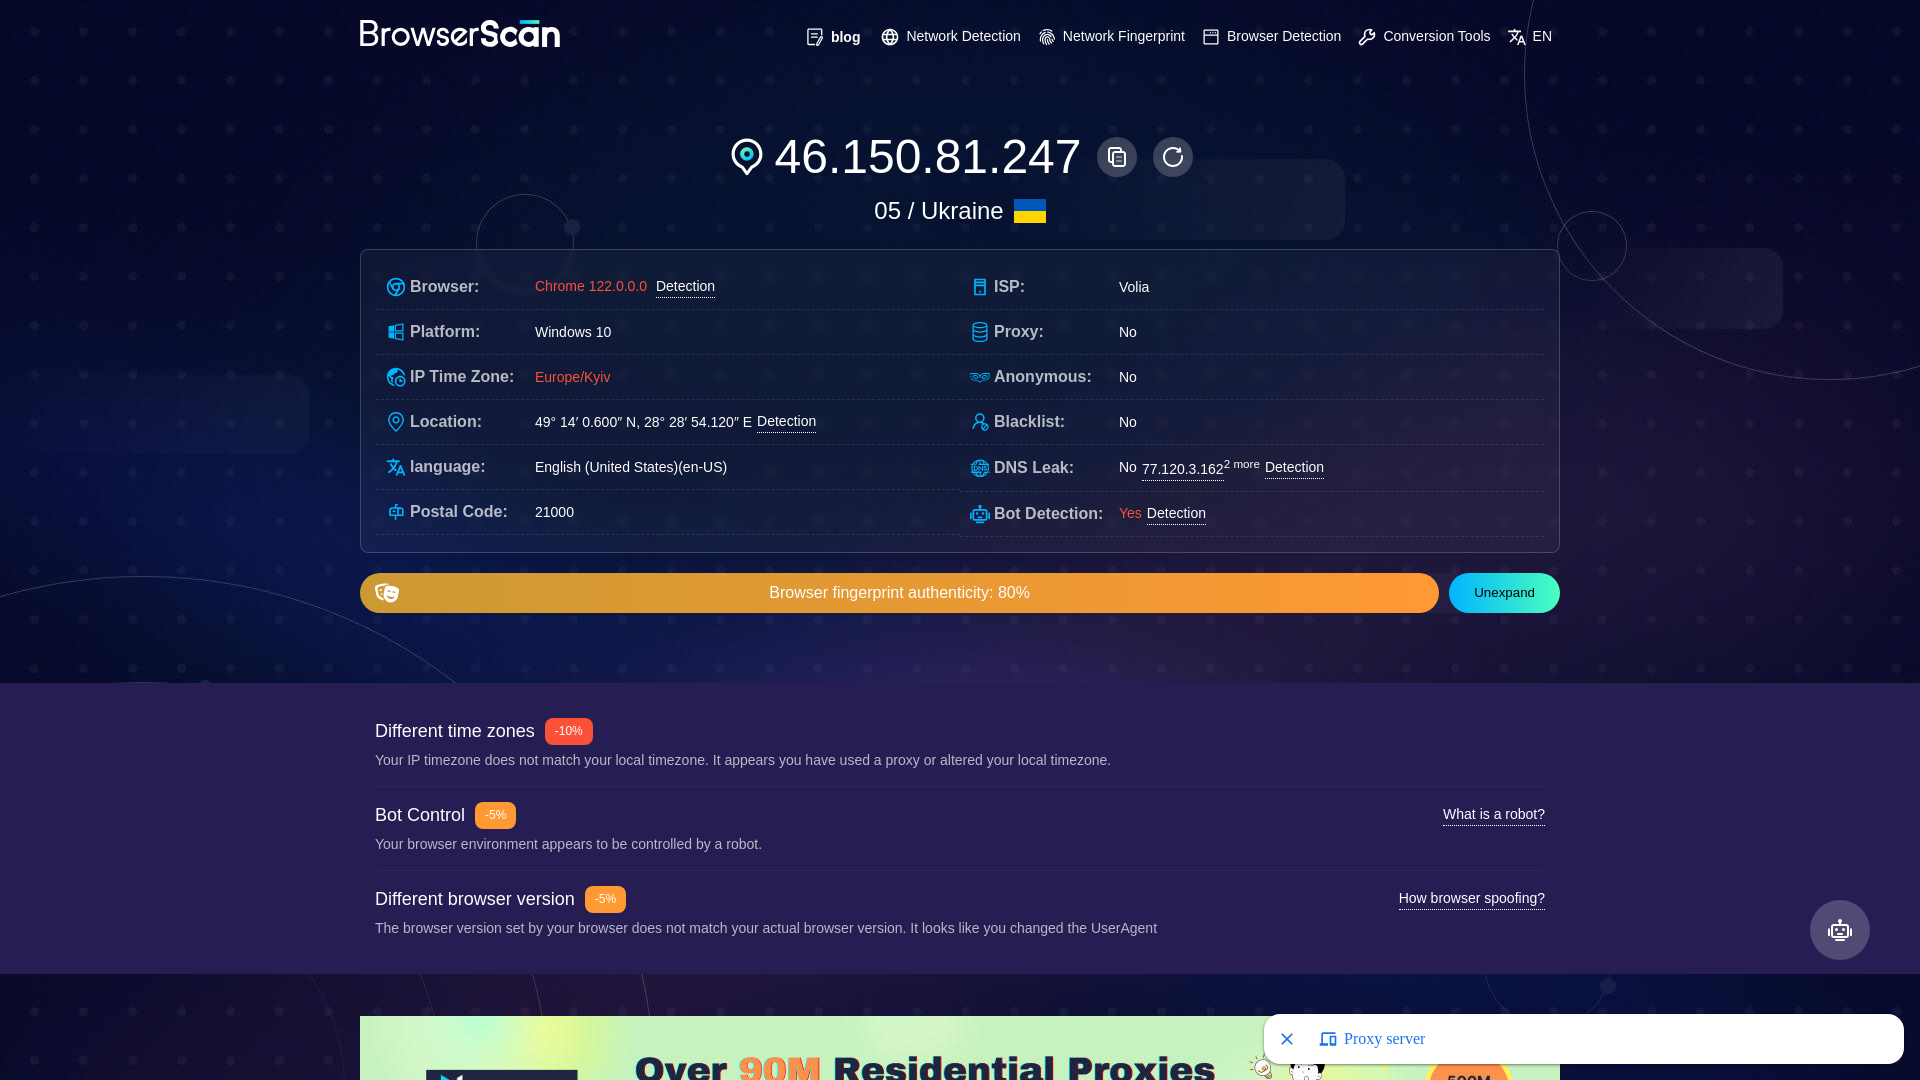
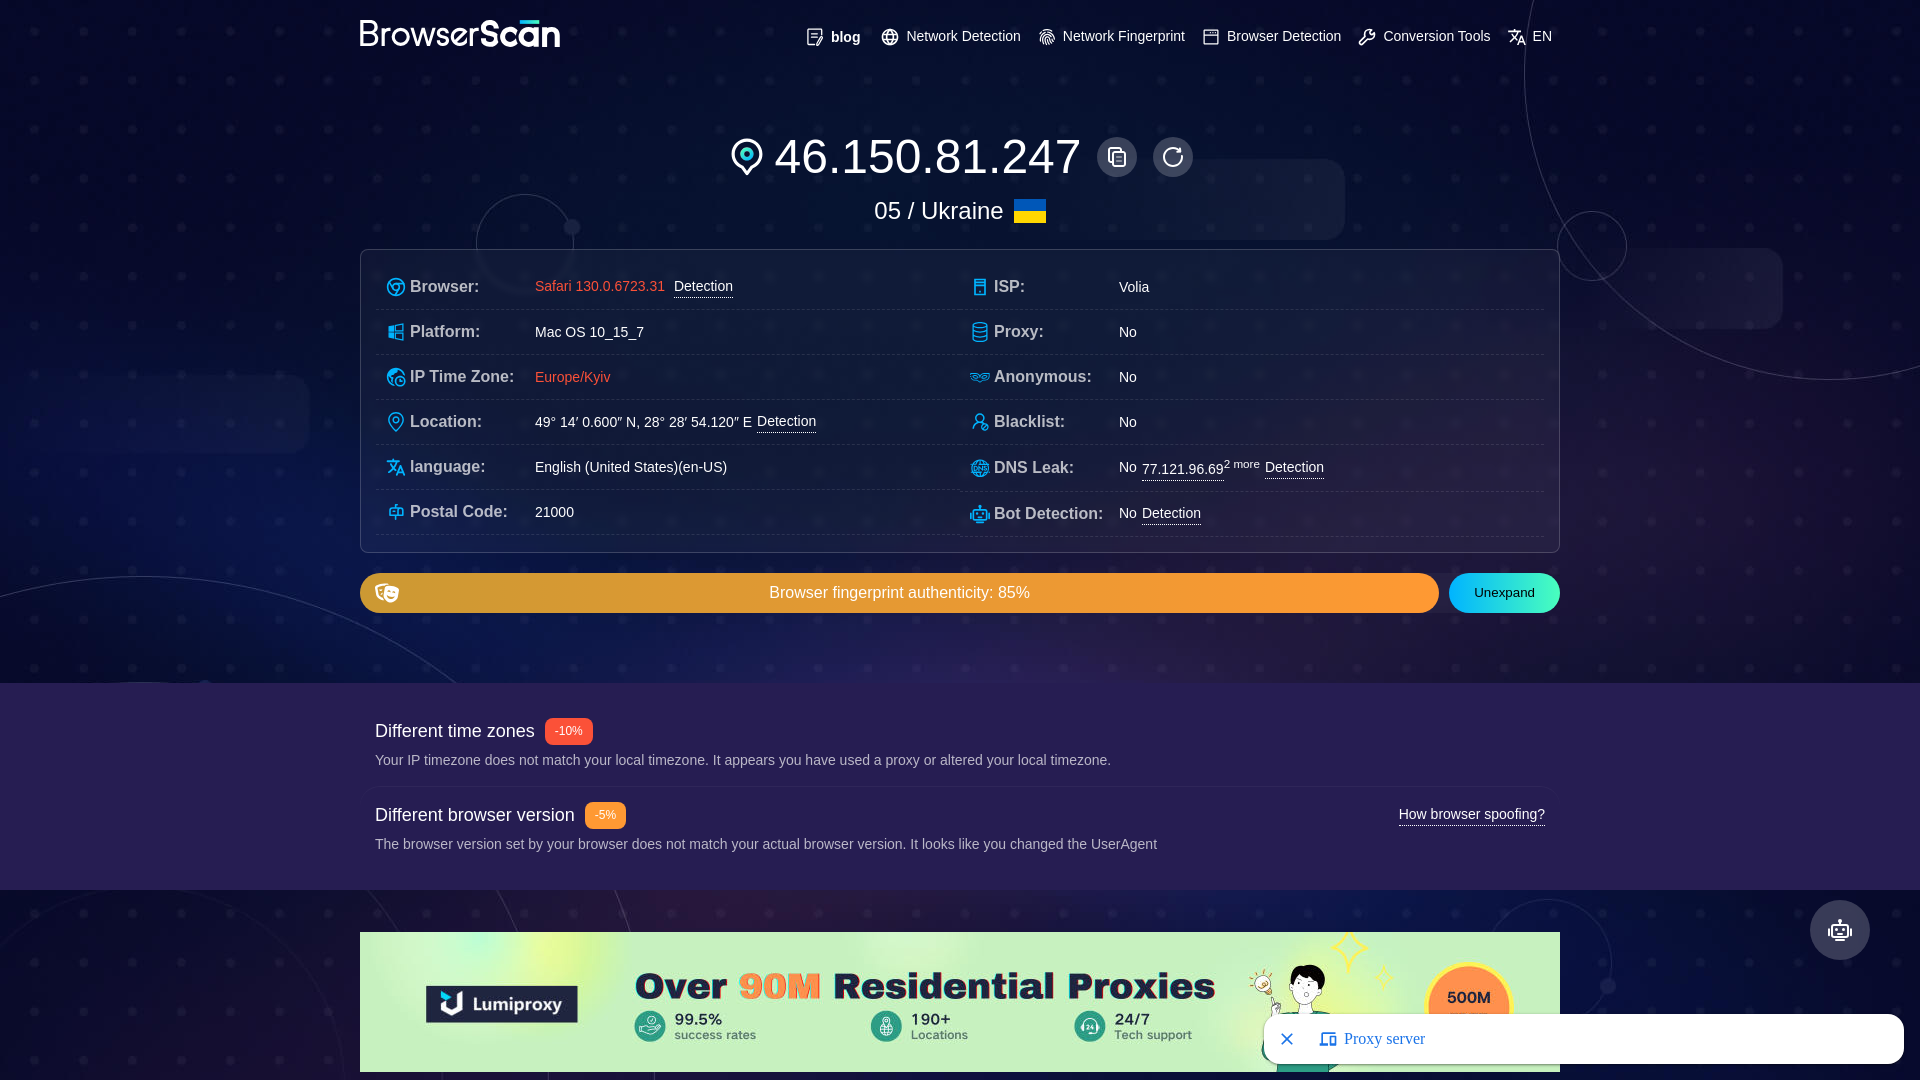
use pathright

diff --git a/browser/provider.py b/browser/provider.py
@@ -1,7 +1,8 @@
 from typing import List
 
 from fake_useragent import UserAgent
-from playwright.async_api import async_playwright
+
+from patchright.async_api import async_playwright
 
 from browser.interfaces.abstract import BrowserInterface
 
@@ -23,7 +24,7 @@ class PlaywrightBrowser(BrowserInterface):
 
         self._playwright = await async_playwright().start()
         self._browser = await self._playwright.chromium.launch(
-            headless=False,
+            headless=True,
             args=[
                 "--disable-blink-features=AutomationControlled",
                 "--disable-web-security",
